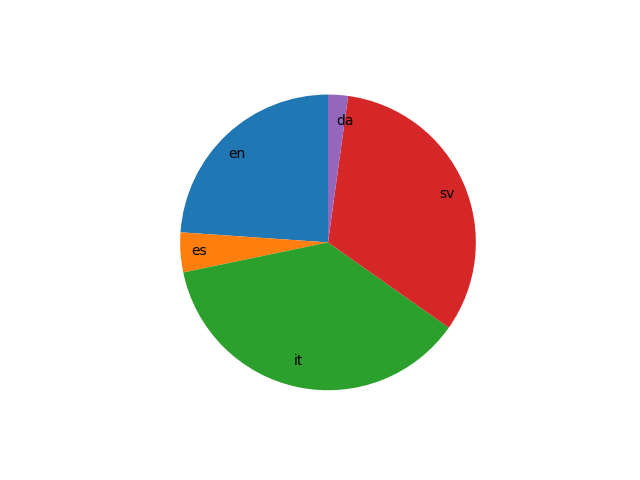
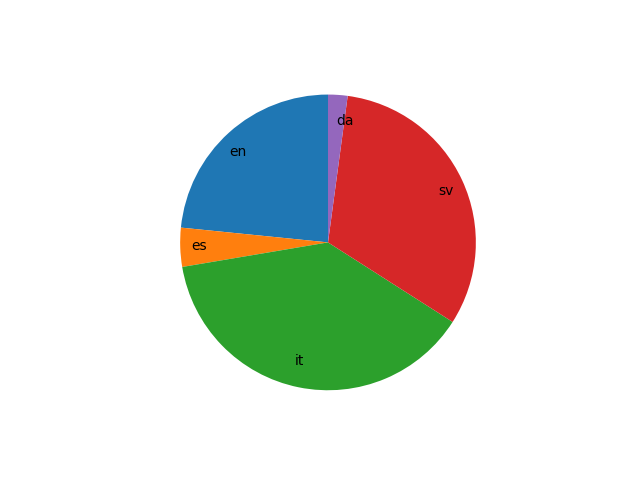
update laconica

diff --git a/assets/img/laconici/langraph.py b/assets/img/laconici/langraph.py
@@ -1,7 +1,7 @@
 import matplotlib.pyplot as plt
 
 langs = ["en", "es", "it", "sv", "da"]
-counts = [11, 2, 17, 15, 1]
+counts = [11, 2, 18, 15, 1]
 
 fig = plt.figure()
 plt.pie(counts, labels = langs, startangle = 90, labeldistance=0.82)

diff --git a/_posts/2023-12-31-laconici.md b/_posts/2023-12-31-laconici.md
@@ -54,3 +54,4 @@ langs: ["en", "es", "it", "sv"]
 44. Gianni Rodari, _Il libro degli errori_: il mio preferito da bambina, ma i brani in versi non mi hanno altrettanto convinta da adulta
 45. Tove Jansson, _Trollvintern_: ganska mysigt att läsa högt med en vän en vinterkväll
 46. Giuseppe Berto, _Il male oscuro_: prosa notevole e grande abilità nel mostrare l'ironia della tragedia 
+47. Carola Frediani, Sonia Montegiove e Federico Nejrotti, _Generazione AI - una monografia sull'intelligenza artificiale_: apprezzo molto [Guerre di Rete](https://www.guerredirete.it/), ma questo ebook l'ho trovato così così.
